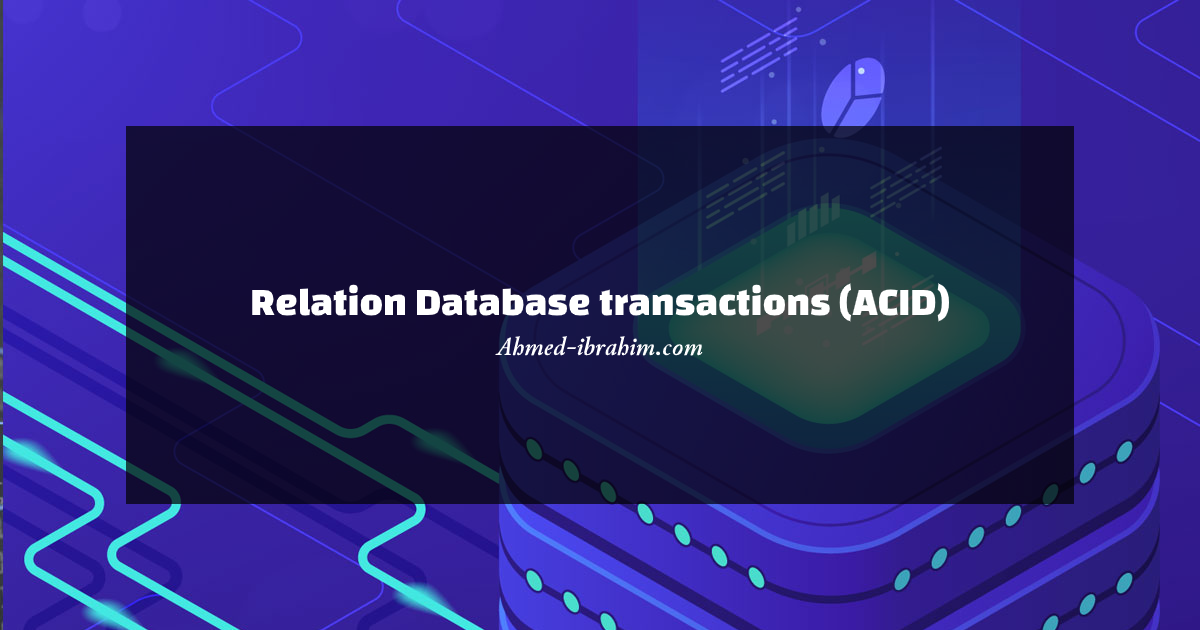
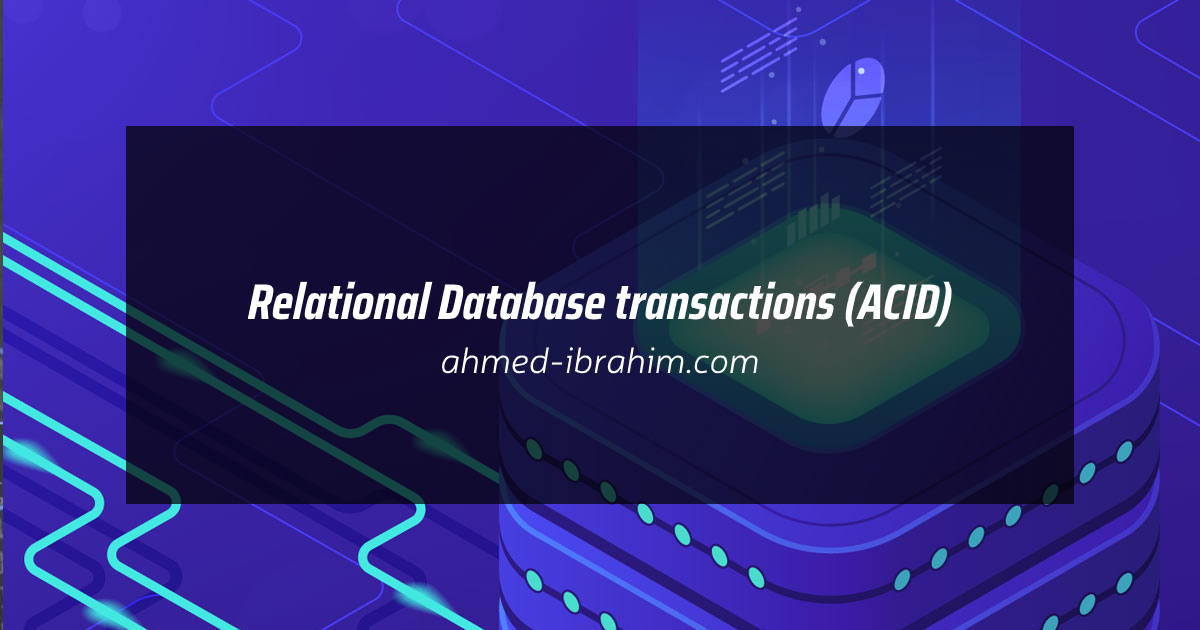
Fix acid image

Changed region(s): [[0.185, 0.4524, 0.8017, 0.5127], [0.37, 0.5429, 0.6475, 0.6032]]

diff --git a/content/posts/20120-09-27-relational-database-transaction-acid-in-dbms.md b/content/posts/20120-09-27-relational-database-transaction-acid-in-dbms.md
@@ -1,10 +1,10 @@
 ---
 date: 2020-09-27
-title: 'Relation Database transactions (ACID)'
+title: 'Relational Database transactions (ACID)'
 template: post
 thumbnail: '../thumbnails/sql.png'
 seoImage: '../thumbnails/ACID-DB.png'
-slug: database-transaction-acid-in-dbms
+slug: relational-database-transaction-acid-in-dbms
 categories:
   - Database
 tags:
